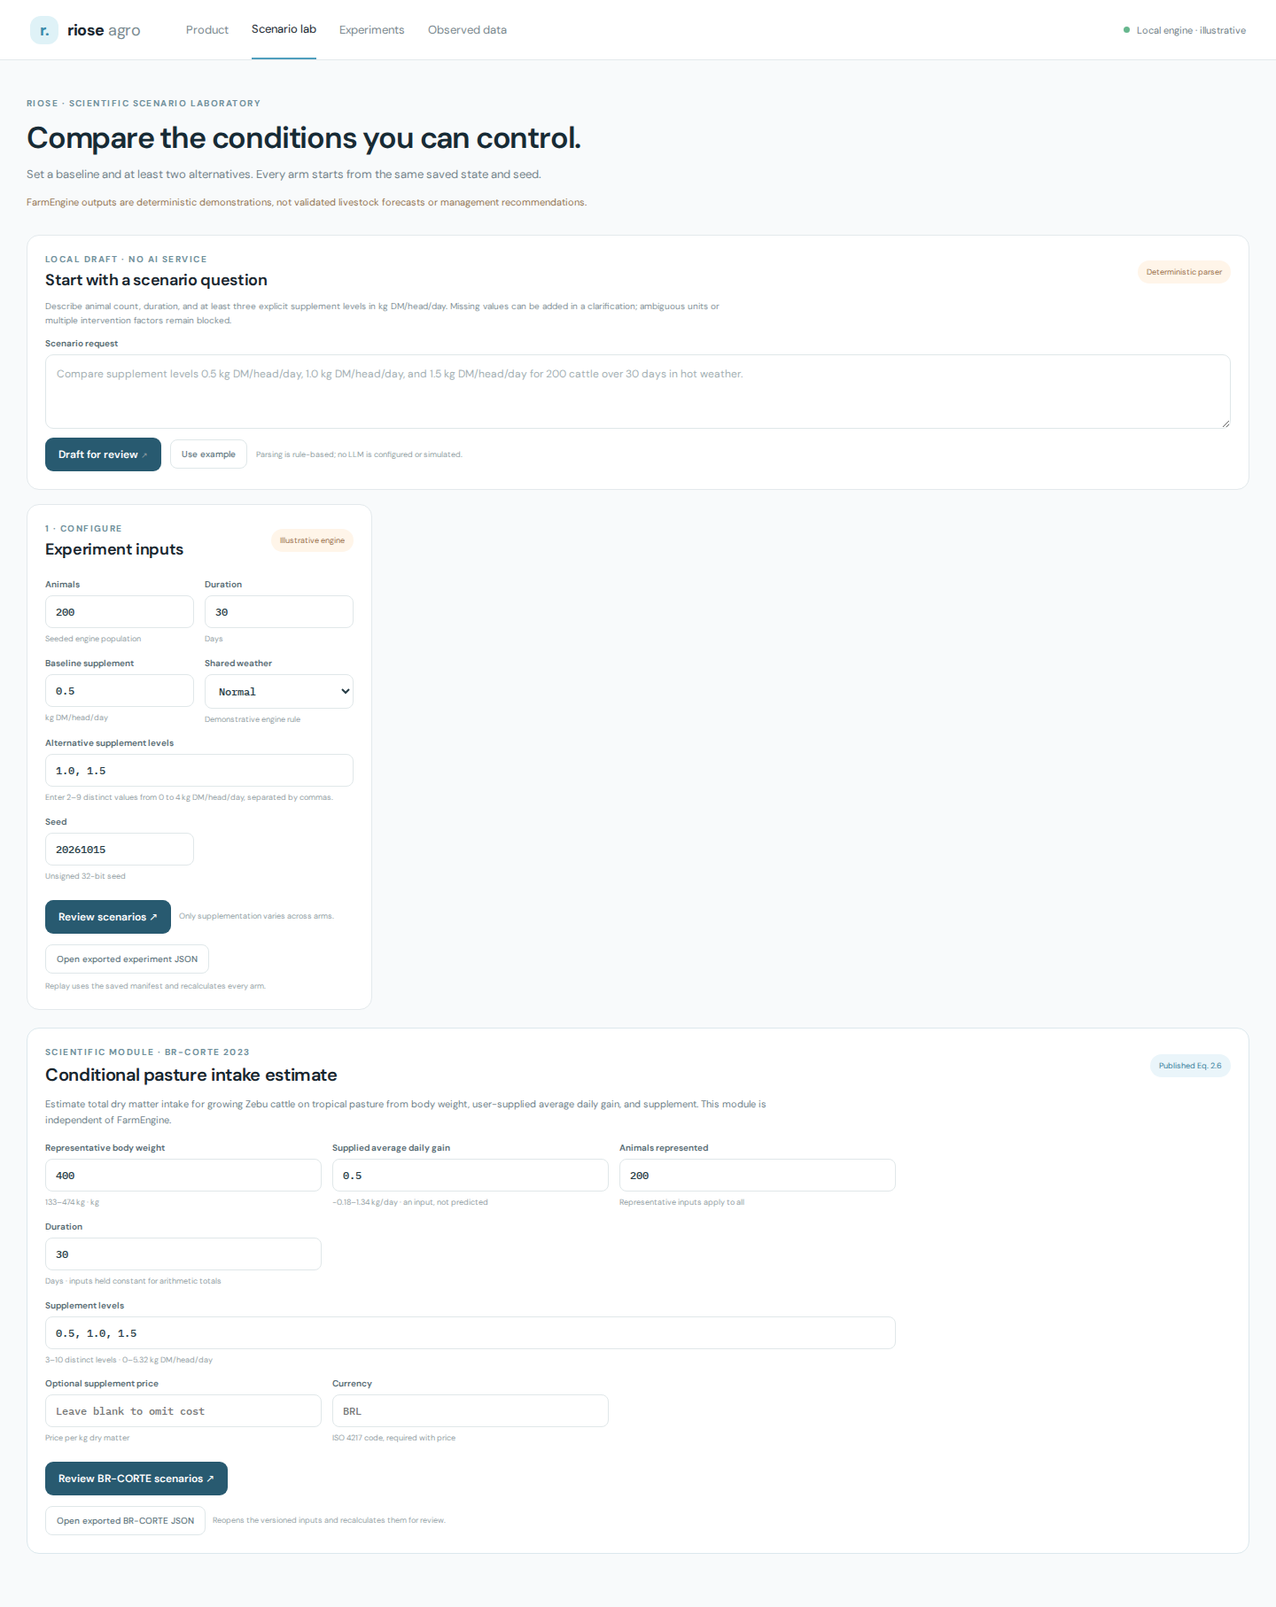
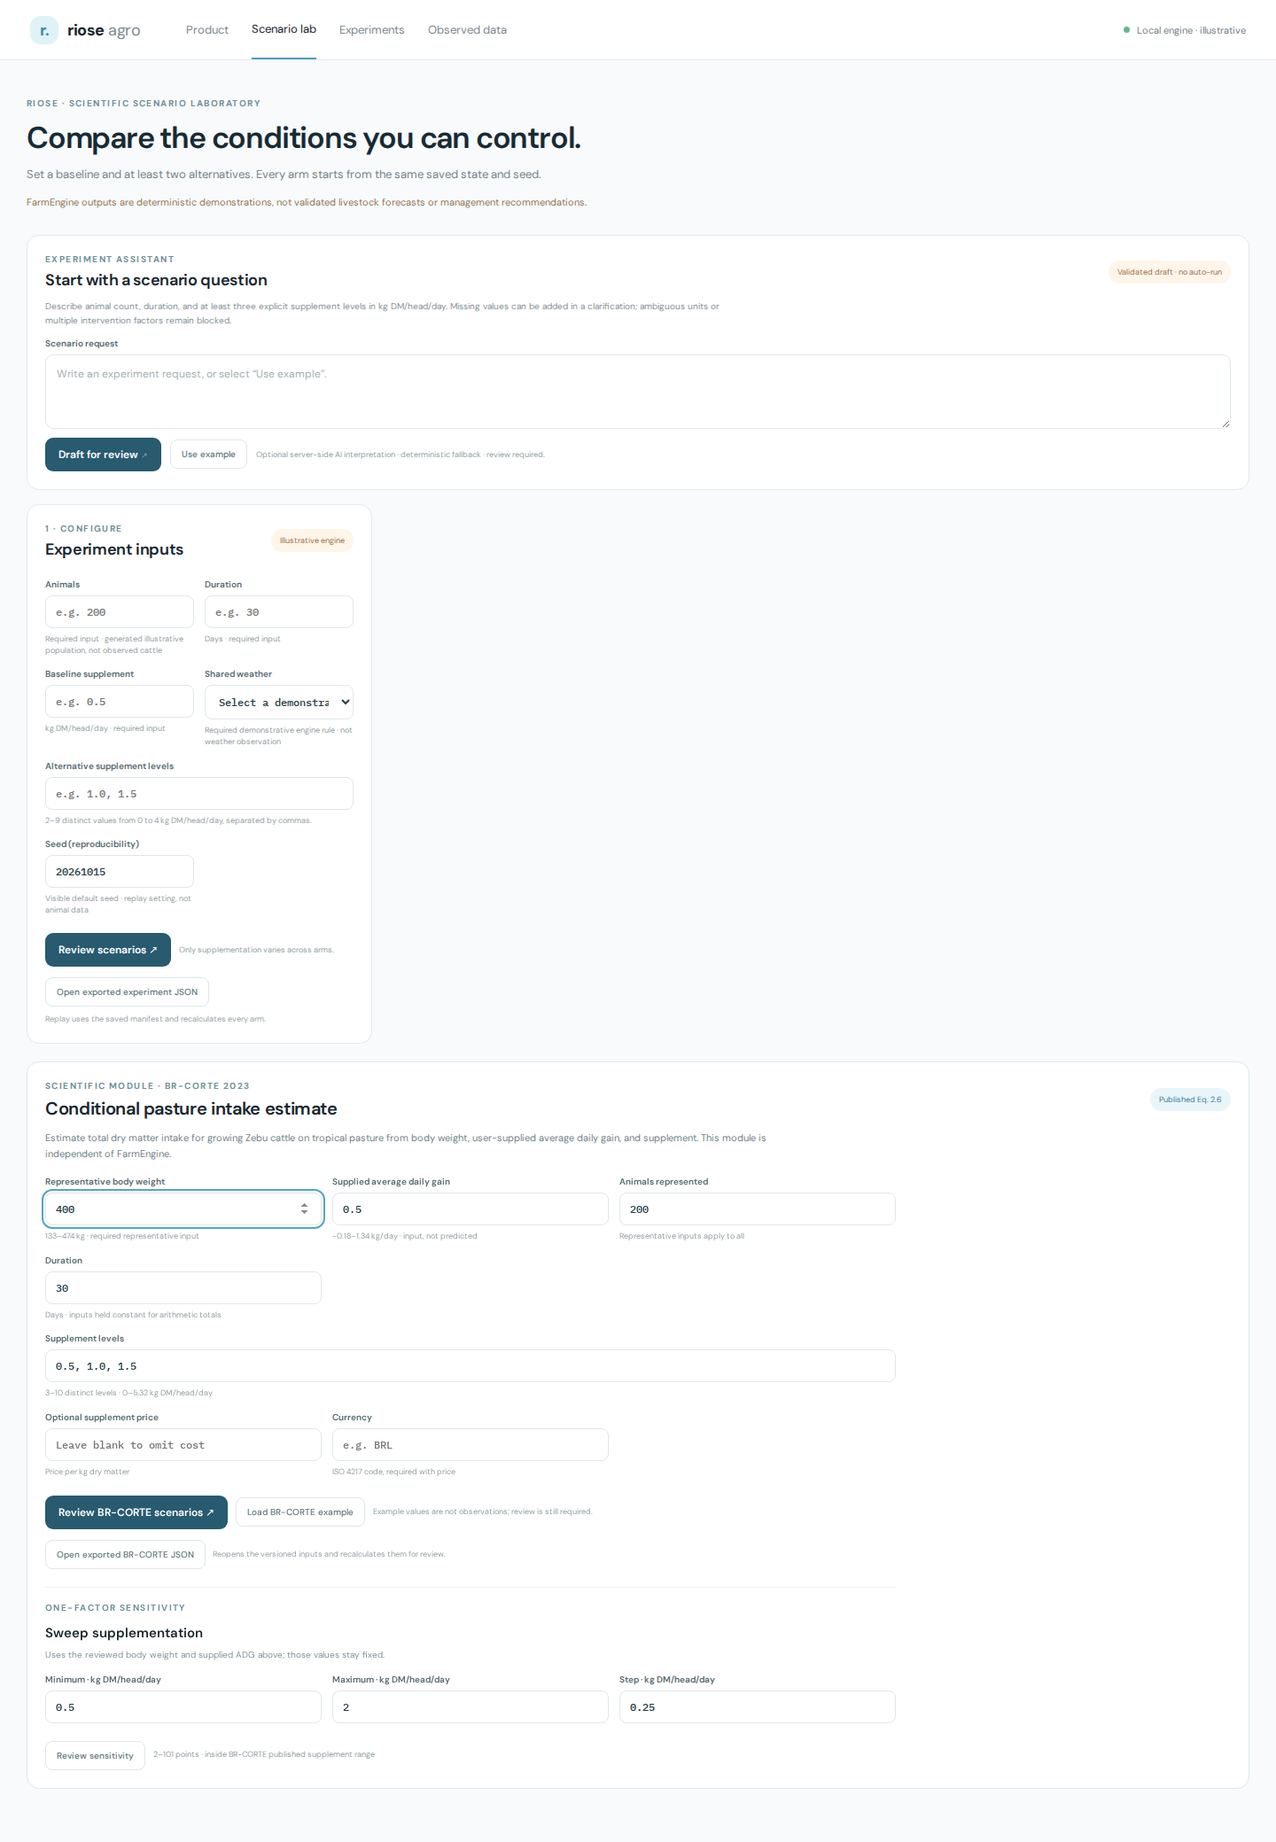
docs(sdd): record V4 AI integration evidence

diff --git a/specs/riose-product-v4/handoff.md b/specs/riose-product-v4/handoff.md
@@ -1,30 +1,31 @@
 # Product V4 handoff
 
 Date: 2026-10-15
-Last verified commit: `04e2379` (P4-005 sensitivity archive and replay).
-Current branch: `codex/behavioral-agents-sdd`.
+Last verified commit: `e72fa02` (P4-006 implementation and test commit); documentation/evidence follow-up is ready locally.
+Current branch: `codex/behavioral-agents-sdd` (45 commits ahead of origin after local commit; no push or merge).
 
-Completed tasks: P4-001 audit/bootstrap; P4-002 registered BR-CORTE sensitivity sweep; P4-003 explicit empty/example state; P4-004 discovery protocol/demo/blank record prepared; P4-005 versioned sensitivity archive and explicit replay.
-Task in progress: none; working tree is clean after the verified P4-005 implementation commit.
-READY: none in the current local V4 queue. Do not invent duplicate work. Existing V3 comparison/replay and conditional cost functions are reused. P3-007 remains blocked by the shared spend gate; P3-008 remains blocked pending independent review. Behavioral semi-Markov remains NO-GO.
+Completed tasks: P4-001 through P4-006. P4-006 adds optional server-side Groq/Hugging Face structured interpretation, deterministic fallback, source/model status, and scenario archive v2 with interpreter provenance. Archive v1 stays readable. Manual edits preserve the original proposal and record `manual-revision`; the confirmed manifest remains tied to actual Worker inputs and result digest.
 
-Files changed for P4-005: `src/client/br-corte-sensitivity-archive.js`, `schemas/br-corte-dmi-sensitivity-archive-v1.schema.json`, `src/client/scenario-lab-app.js`, `scenario-lab.html`, `tests/br-corte-sensitivity.test.js`, `scripts/e2e/scenario-lab.mjs`, and V4 task/progress/decision/acceptance docs.
+Task in progress: none.
+READY: none without a secure credential for the one-off live test or a new independent requirement.
+BLOCKED: P4-007 live provider validation (the user authorized one request up to USD 0.10, but no secure provider key is configured). P3-007 remains BLOCKED for production-wide use because the persistent shared spend ceiling is still absent. P3-008 remains BLOCKED pending independent scientific review. Behavioral semi-Markov remains NO-GO.
 
-Checks actually executed:
+Files changed: `src/server/scenario-lab-ai.js`, `src/server/server.js`, `src/client/scenario-lab-app.js`, `src/client/scenario-lab-integrity.js`, `scenario-lab.html`, `tests/scenario-lab-ai.test.js`, `tests/scenario-lab-integrity.test.js`, `tests/app.test.js`, `scripts/e2e/scenario-lab.mjs`, `scripts/e2e/scenario-lab-ai.mjs`, `package.json`, V4 task/progress/acceptance/AI/decision/handoff documents, and refreshed local Chromium screenshots for Product V3/V4 Scenario Lab.
 
-- `npm run test:br-corte-sensitivity` — 7/7 pass.
-- `npm run test:br-corte-scenarios` — 3/3 pass.
-- `npm run test:scenario-lab-integrity` — 4/4 pass.
-- `npm run test:e2e:scenario-lab` — PASS: sensitivity export, tamper rejection without replacing the prior result, valid archive opens without calculation, explicit replay matches exactly, edits invalidate review/results, mobile width 390 px with no horizontal overflow, zero console errors.
-- `npm run test:e2e:product` — PASS: Product V2 main flow including local replay and mobile layout.
-- `npm test` — 504/504 pass (starting suite was 497; P4-002 added 5 sensitivity tests and P4-005 added 2).
-- `npm run test:parity` — PASS, pasture seed 417/24 checkpoints; housing seed 2026/1,440 hourly checkpoints and 31 daily rows.
-- `git diff --check` — clean before commit.
+Tests executed:
 
-Visual evidence: Product V4 BR-CORTE sensitivity desktop and mobile screenshots at `docs/evidence/product-v4-br-corte-sensitivity-desktop.png` and `docs/evidence/product-v4-br-corte-sensitivity-mobile.png`. Captures were produced by the local Chromium Playwright E2E. T3 preview status explicitly reported that no automation host is attached to this headless environment; it instructed not to retry. Mobile results show no horizontal overflow. No new animation was introduced; existing reduced-motion CSS remains active.
+- `node --test tests/scenario-lab-ai.test.js tests/scenario-lab-integrity.test.js tests/experiment-intent-api.test.js tests/scenario-lab-intent.test.js`: PASS (24 tests at that point).
+- `npm run test:e2e:scenario-lab`: PASS; FarmEngine runs only after explicit confirmation, cancellation works, 390 px mobile has no overflow, no console errors.
+- `npm run test:e2e:scenario-lab-ai`: PASS; provider fixture → review → explicit run → v2 provenance export → open without run → explicit replay. No provider contacted.
+- `npm run test:e2e:product`: PASS; Product V2 flow and local replay.
+- `npm test`: PASS, 510/510.
+- `npm run test:parity`: PASS; pasture seed 417 (24 checkpoints), housing seed 2026 (1,440 hourly checkpoints, 31 daily rows).
+- `git diff --check`: PASS before commit.
 
-Scientific limitations: BR-CORTE Eq. 2.6 estimates total DMI conditionally using supplied ADG inside the declared domain. It does not predict ADG/gain, measure forage intake, or establish a causal supplement response; no Riose calibration is claimed. Cost is arithmetic from user-provided price per kg DM, amount, animal count and duration. FarmEngine remains illustrative. Sensitivity archive SHA-256 values verify content consistency but are not cryptographic signatures. Perea NO-GO unchanged; no formulas, thresholds, or status gates changed.
+Secure provider status: `GROQ_API_KEY`, `HF_TOKEN`, provider/model environment values were absent when checked. No authenticated model discovery or live inference occurred. The token pasted in chat is considered exposed; revoke it with the provider and supply a new token through secure environment configuration only. Do not use or repeat the chat value. Groq's public docs currently list `openai/gpt-oss-20b` as strict JSON Schema capable; account availability remains unverified. HF requires account-specific model/provider verification; V4 refuses a default HF model.
 
-External readiness: discovery protocol and neutral demo are prepared only. No participants contacted and no feedback/interview performed. Independent scientific review is still `NOT_PERFORMED`. No LLM provider call, push, merge, or remote history operation was performed.
+Scientific limitations: V4 intent is only a scenario draft. FarmEngine remains demonstrative; BR-CORTE remains a separate conditional Eq. 2.6 calculation and does not predict gain. Perea semi-Markov NO-GO unchanged. No scientific equations, behavior, or result values changed. API rate limiting is process-local abuse control, not a shared cost ceiling.
 
-Next action: no implementation task is currently READY. Resume product code when a new non-duplicative requirement is selected; PRD-007 needs real human recruitment and consent. Do not treat participant discovery as scientific review or unblock P3-007/P3-008 without their real gates.
+Visual evidence: local Chromium screenshots are in `docs/evidence/product-v3-scenario-lab-initial.png`, `docs/evidence/product-v3-scenario-lab-results.png`, and the existing refreshed Product V4 screenshot set. The T3 preview reported no automation host; its tool instructed not to retry. Local Chromium E2E was used instead.
+
+Next action: after a new key is safely provisioned, use only the already-authorized single manual interpretation request (maximum USD 0.10), verify the selected account model, then complete Product V4 review → explicit FarmEngine execution → export → replay. Do not enable production provider traffic or mark P3-007 resolved. No push, merge, deployment, or external outreach.

diff --git a/specs/riose-product-v4/progress.md b/specs/riose-product-v4/progress.md
@@ -49,3 +49,13 @@
 ## Queue review
 
 - No additional code task is READY without duplicating V3 comparison/replay, the existing cost calculator, or P4 sensitivity/archives. Remote AI remains behind P3-007; scientific/commercial approval remains behind P3-008; collecting user feedback requires real recruited participants and consent. These are gates/dependencies, not work that can be represented as completed locally.
+
+## 2026-10-15 — Optional V4 AI interpretation slice
+
+- Added a server-only `/api/interpret-scenario-lab` adapter for Groq and Hugging Face chat-completion APIs using a strict JSON Schema for the existing `riose-scenario-lab-intent/v1`; no tools, scientific calculations, or execution fields are offered. Request/response bounds and a five-second timeout are enforced; server responses are validated with the existing V4 intent contract and reconciled against deterministic unsupported/missing-input checks.
+- Product V4 now requests optional remote interpretation. Missing key, provider error, invalid response, or rate limit falls back to the deterministic parser. The interface identifies the interpreter used; draft preparation still only creates a review. The Run button remains the only engine execution path.
+- New archives use `riose-scenario-lab-archive/v2`, binding interpreter source/provider/model alongside existing manifest, result, seed, executor, units, assumptions and digests. Version 1 archives remain readable; no keys enter browser state or exports. The per-process/IP request limiter is only abuse control, not a shared spend ceiling.
+- Security tests cover strict schemas, prompt injection in text, local unsupported-outcome reconciliation, missing credential, malformed/out-of-range provider output, and endpoint bounds. Archive tests cover v2 AI metadata, manual edits preserving the initial proposal, and v1 compatibility. Scenario Lab fallback desktop/mobile E2E, provider-fixture review/run/export/replay E2E, Product V2 E2E and full regression passed. The current full regression after the manual-revision test is recorded in the handoff.
+- No API key is available as a secure environment variable. A credential was pasted in chat more than once and is treated as exposed; it must be revoked and replaced through secure environment configuration. No provider/model listing or inference request was made. The user authorized one non-production interpretation request up to USD 0.10; that authorization remains unused. P3-007 stays blocked for production.
+- Final evidence after the manual-revision provenance change: `npm test` 510/510 pass; `npm run test:parity` pass (pasture seed 417, 24 checkpoints; housing seed 2026, 1,440 hourly checkpoints and 31 daily rows); `npm run test:e2e:product` pass; `npm run test:e2e:scenario-lab` pass (desktop + 390 px mobile, no horizontal overflow/console errors); `npm run test:e2e:scenario-lab-ai` pass using an explicit fixture route (not a live provider). Browser captures reviewed at `docs/evidence/product-v3-scenario-lab-initial.png` and `docs/evidence/product-v3-scenario-lab-results.png`; screenshots are local Chromium evidence. T3 preview has no automation host in this headless environment.
+- Official API references used for implementation: [Groq structured outputs](https://console.groq.com/docs/structured-outputs), [Groq model catalog](https://console.groq.com/docs/models), [Hugging Face Inference Providers structured output](https://huggingface.co/docs/inference-providers/en/guides/structured-output). Public Groq docs list `openai/gpt-oss-20b` as supporting structured outputs; account access and rate/cost availability remain unverified. HF model/provider availability is account-specific and unverified.

diff --git a/specs/riose-product-v4/tasks.md b/specs/riose-product-v4/tasks.md
@@ -68,3 +68,29 @@ Status: DONE (versioned archive schema/module; unit tests verify reproducible re
 - Conditional BR-CORTE scenario costs: DONE in P3-004; no new cost model unless an input or equation gap is demonstrated.
 - P3-007 AI providers/tool agent: BLOCKED by shared persistent spend ceiling; do not mark complete here.
 - P3-008 commercial/scientific readiness: BLOCKED pending independent domain review and evidence. Behavioral integration: NO-GO.
+
+## AI integration continuation
+
+### P4-006 — Product V4 interpretation adapter and archive provenance
+
+ID: P4-006
+Title: Connect optional server-side structured AI interpretation to the V4 draft flow without automatic execution
+Specification reference: `ai-orchestration.md`; `product-requirements.md` PRD-001/002/003/004; `testing-strategy.md`
+Dependencies: P4-001; existing Scenario Lab intent contract; P3-007 remains blocked for production-wide enablement
+Implementation scope: Add a bounded Groq/Hugging Face provider adapter for the existing V4 intent schema; deterministic safety reconciliation; no-key/failure fallback; explicit source/model display; preserve confirmed intent and interpreter provenance in archive v2 while retaining archive v1 reading.
+Acceptance criteria: Provider output is strict JSON, independently validated server-side and client-side; unsupported local-parser requests remain blocked; only interpretation occurs before review; the existing explicit Run action is still the sole execution path; archive binds the exact approved intent/manifest/execution and provider metadata; v1 replay remains readable; rate limiting is not represented as a shared monetary budget.
+Required tests: adapter/request bounds; malformed/out-of-domain/prompt-injection cases; no-key endpoint; V4 E2E no-autostart/review/confirm/export/replay; archive v1/v2 compatibility; Product V2 E2E; regression suite.
+Evidence: focused tests, E2E, complete regression, browser screenshots, and server-side provider response metadata when a new secure key is available.
+Status: DONE (strict provider adapter + deterministic fallback, archive v2 intent/provenance binding with v1 reader, provider-fixture UI E2E, local fallback UI E2E, full regression and parity pass; live account call is separated into P4-007).
+
+### P4-007 — One-off live provider validation
+
+ID: P4-007
+Title: Verify one authenticated real provider interpretation and full Product V4 experiment flow
+Specification reference: `ai-orchestration.md`; `acceptance-criteria.md`; provider integration mission
+Dependencies: P4-006; a newly rotated key provisioned through secure environment configuration; account/model availability check
+Implementation scope: Use the already authorized maximum of one manual inference request (USD 0.10) in this session, then complete review, explicit local execution, export, and replay; never activate production provider traffic.
+Acceptance criteria: Secret is absent from chat, logs, browser, response, and archive; selected provider/model is available and supports the required schema; one live interpretation reaches V4 review with no automatic execution; user confirmation runs the FarmEngine only; archive replay matches; P3-007 production/shared spend gate remains unchanged.
+Required tests: one live provider request; focused Product V4 E2E with the real interpretation response; export/replay; key-safe log review.
+Evidence: sanitized provider/model/status metadata, E2E output, and replay digest. Never store the secret or raw authorization headers.
+Status: BLOCKED (no secure provider credential is present in this session; the pasted credential is treated as exposed and must be rotated).

diff --git a/specs/riose-product-v4/ai-orchestration.md b/specs/riose-product-v4/ai-orchestration.md
@@ -3,3 +3,13 @@
 V4 local workflows work without a provider. Reuse P3-009's deterministic prompt draft and BEH-016's read-only evidence assistant. Proposed future tools are exact, server/client-validated schemas: list models, get applicability, create draft, validate, compare, sensitivity, conditional cost, inspect results, explain provenance.
 
 Execution tools are never exposed to a model as autonomous authority: model proposals are validated, shown for review, and require explicit user confirmation. Providers cannot supply scientific numbers, alter equations/data, widen domain bounds, or control animals per tick. Unknown tools/fields and prompt injection fail closed. Keep Groq/Hugging Face optional and retain P3-007 BLOCKED until its persistent spend ceiling is real. No paid calls in this track without authorization.
+
+## Product V4 prompt interpretation (P4-006)
+
+`POST /api/interpret-scenario-lab` accepts exactly `{prompt}` (maximum 1,200 characters). If `LLM_PROVIDER=groq`, the server uses `GROQ_API_KEY` and defaults to `openai/gpt-oss-20b`, which Groq's current public documentation lists as supporting strict JSON Schema outputs. If `LLM_PROVIDER=huggingface`, the server uses `HF_TOKEN` and requires an explicitly configured `HF_MODEL`; model/provider structured-output availability varies and must be verified against the authenticated account. `LLM_MODEL` may override the provider-specific model. Credentials are never returned to the browser.
+
+The adapter asks for only `riose-scenario-lab-intent/v1`, uses a strict schema, temperature 0, output cap 700 tokens, a 5 second timeout and no tool calls. The server parses JSON, applies the existing strict intent validator, and unions any deterministic-parser missing-input or unsupported-request findings. The browser validates again. Provider failures return sanitized errors; the page falls back to its deterministic parser. A per-process per-IP request limiter reduces abuse but is not a persistent or monetary budget. This does not unblock P3-007.
+
+The user prompt remains untrusted content. A provider result only prepares a review draft. The existing separate `Run scenarios` action verifies the approved manifest digest before sending work to the Worker. Version 2 scenario archives retain interpretation source/provider/model and the original validated proposal. If a user edits scenario inputs, the archive records `manual-revision`: it preserves the original proposal, while the manifest binds the inputs actually confirmed and executed. Version 1 archives remain readable.
+
+Current docs: [Groq structured outputs](https://console.groq.com/docs/structured-outputs), [Groq supported models](https://console.groq.com/docs/models), [Hugging Face structured outputs](https://huggingface.co/docs/inference-providers/en/guides/structured-output). Public model support does not prove availability or entitlement for this account.

diff --git a/specs/riose-product-v4/decisions.md b/specs/riose-product-v4/decisions.md
@@ -8,3 +8,6 @@
 - P4-ADR-006: Any LLM planning integration remains behind P3-007's persistent cost gate. Deterministic local validation and computation can ship without it.
 - P4-ADR-007: BR-CORTE sensitivity uses its own v1 archive contract instead of changing the V3 scenario-set archive or the existing BR-CORTE scenario export. Reproduction is deterministic through the registered Eq. 2.6 implementation; `seed` is explicitly null because that calculation is not stochastic. Canonical hashes detect accidental/tampered content but are not signatures or evidence of scientific validity.
 - P4-ADR-008: A valid sensitivity archive opens into review only. Recalculation requires the user's explicit Calculate action; imported expected output is compared canonically after re-execution.
+- P4-ADR-009: The V4 conversational provider can only create the existing strict scenario intent. It has no execution tools or output channel for scientific values. Both server and client validate it; deterministic unsupported/missing checks are merged as a safety floor. Provider errors use the known local parser.
+- P4-ADR-010: New scenario-lab exports use archive v2 to record interpreter identity. Archive v1 remains readable. A manual edit after interpretation keeps the initial proposal as provenance but labels the request `manual-revision`; the exact confirmed/executed values remain bound by the scenario manifest and digest. The v2 archive hashes are consistency checks, not signatures.
+- P4-ADR-011: A rolling per-process/per-IP limiter reduces endpoint abuse only. It is not evidence of a shared cost ceiling and does not resolve P3-007. A single user-authorized non-production call remains distinct from enabling production provider traffic.

diff --git a/specs/riose-product-v4/acceptance-criteria.md b/specs/riose-product-v4/acceptance-criteria.md
@@ -11,3 +11,4 @@
 | P4-ACC-007 | V2/V3, 497 baseline suite, parity as applicable, Perea NO-GO and provider/science gates remain unchanged. | Regression output and status records |
 | P4-ACC-008 | Product discovery materials are prepared without fabricating user feedback or contacting participants. | Demonstration script, question guide and blank structured record |
 | P4-ACC-009 | Sensitivity archive is versioned, verifies the exact registered-model result and provenance, opens without calculation, and replays only after explicit confirmation. | Archive unit/schema tests, tampering tests and Product V3 browser E2E |
+| P4-ACC-010 | Optional V4 AI interpretation returns only a strict validated intent, falls back deterministically, never starts execution, and archives provider/model plus the exact confirmed manifest while preserving v1 import. | Adapter security tests, AI-fixture and fallback browser E2E, archive compatibility, regression suite |
